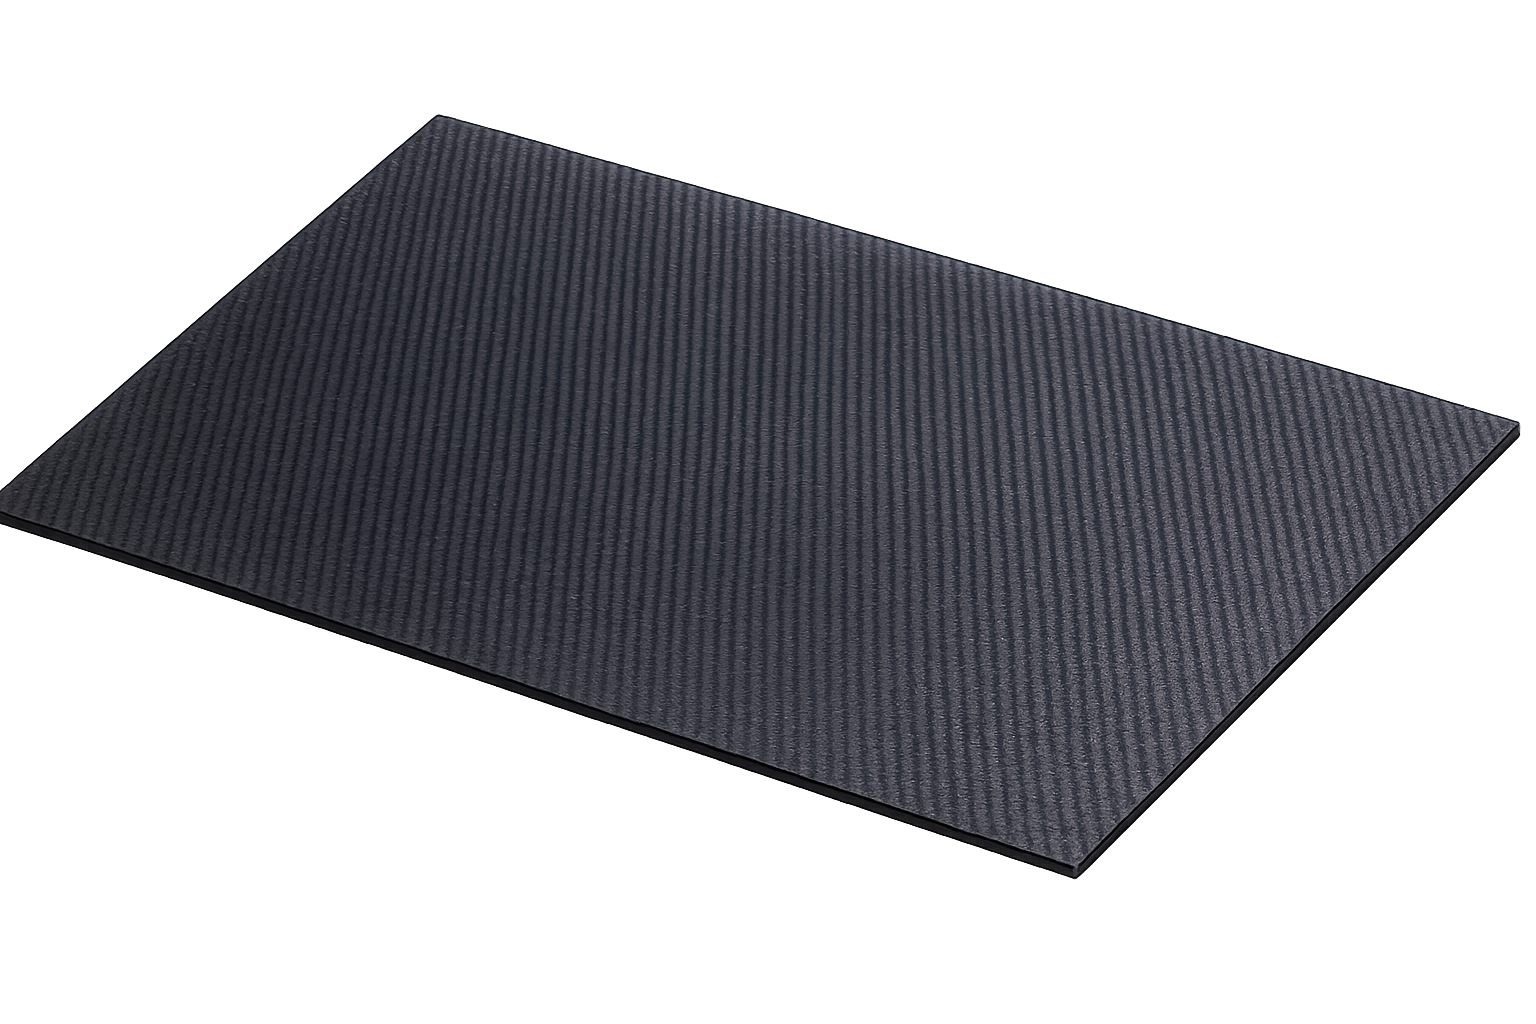
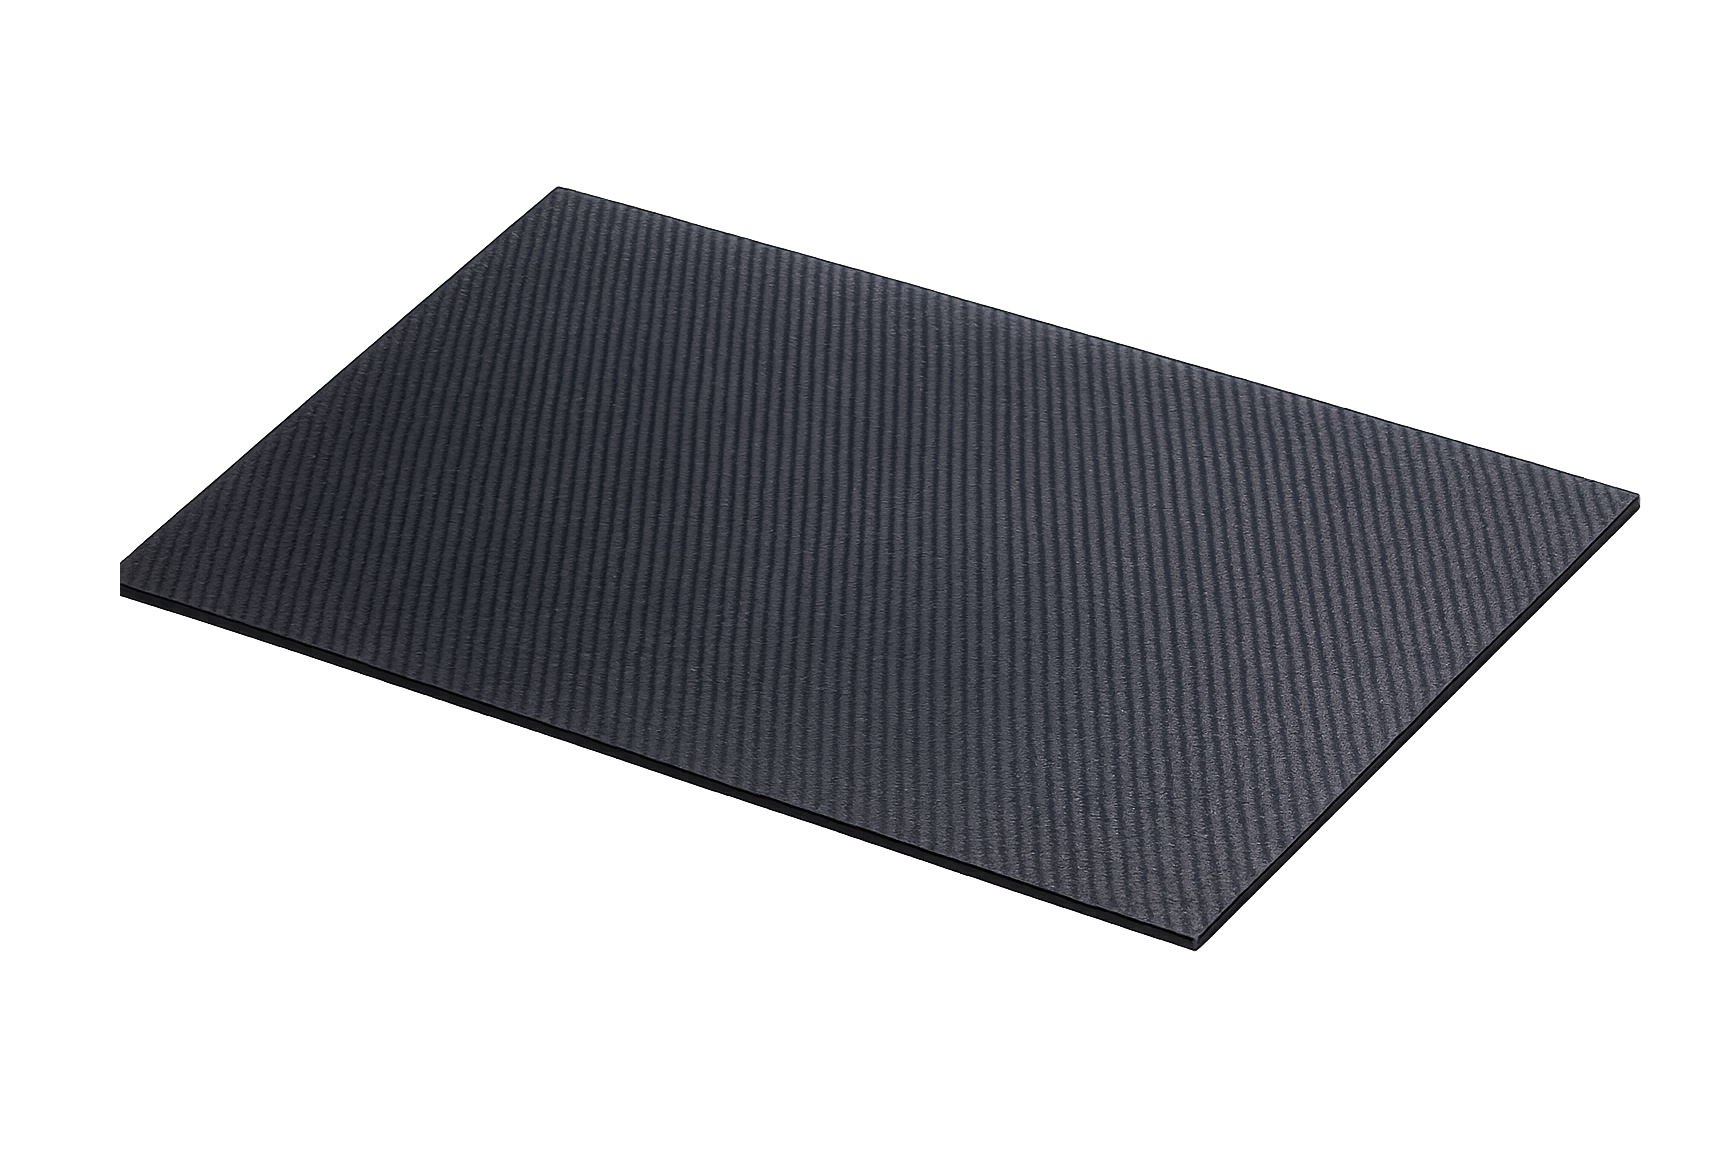
Fix homepage product image assets

Changed region(s): [[0.0, 0.0938, 1.0, 0.875]]

diff --git a/agent-logs/HANDOFF.md b/agent-logs/HANDOFF.md
@@ -1,6 +1,6 @@
 # Handoff
 
-更新时间：2026-06-15 23:23:34 +08:00
+更新时间：2026-06-15 23:55:40 +08:00
 
 ## 当前状态
 
@@ -13,6 +13,9 @@
 
 ## 本轮完成
 
+- 修正首页快速索引用的两张产品图资源：
+  - `public/assets/docs/wheels/silicone-tube.png` 去除白色不透明背景，保留透明 PNG，并裁到产品边界后补透明边距。
+  - `public/assets/docs/structure/ban-cai.png` 增加透明安全边距，避免板材左侧小角在卡片中贴边/被裁。
 - 移除 `/wheels/roller-system/` 配置卡片中直接展示的图片原始文件名：
   - `HUBonly.png`
   - `SinglePulley.png`
@@ -73,6 +76,11 @@
 
 ## 验证结果
 
+- 使用 `sharp` 检查图片 alpha：硅胶软管图白色不透明像素为 0，透明像素约 77 万；板材图产品 alpha 左边界从 0 改为 120px。
+- `npm run lint:content` 通过。
+- `npm run check` 通过，0 errors、0 warnings、0 hints。
+- `npm run build` 通过，生成 17 个页面，Pagefind 搜索索引构建成功。
+- 使用构建产物 + Playwright 截图检查暗色首页卡片：硅胶软管不再显示白底，板材左侧不再贴边。
 - `npm run lint:content` 通过。
 - `env ASTRO_TELEMETRY_DISABLED=1 npm run check` 通过，0 errors、0 warnings、0 hints。
 - `env ASTRO_TELEMETRY_DISABLED=1 npm run build` 通过，生成 17 个页面，Pagefind 搜索索引构建成功。
